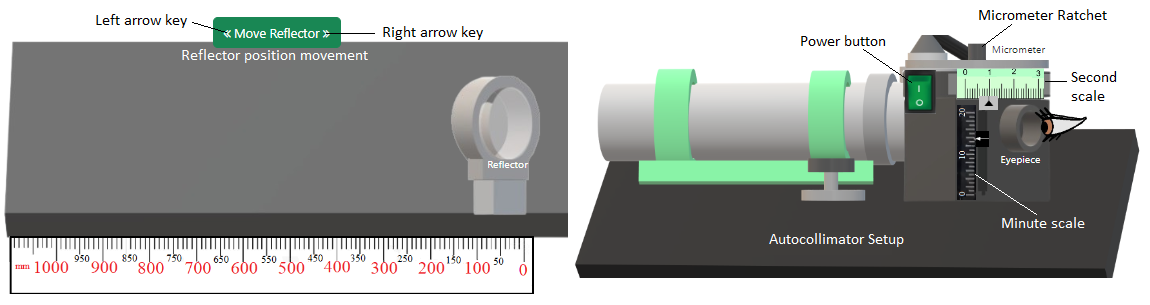
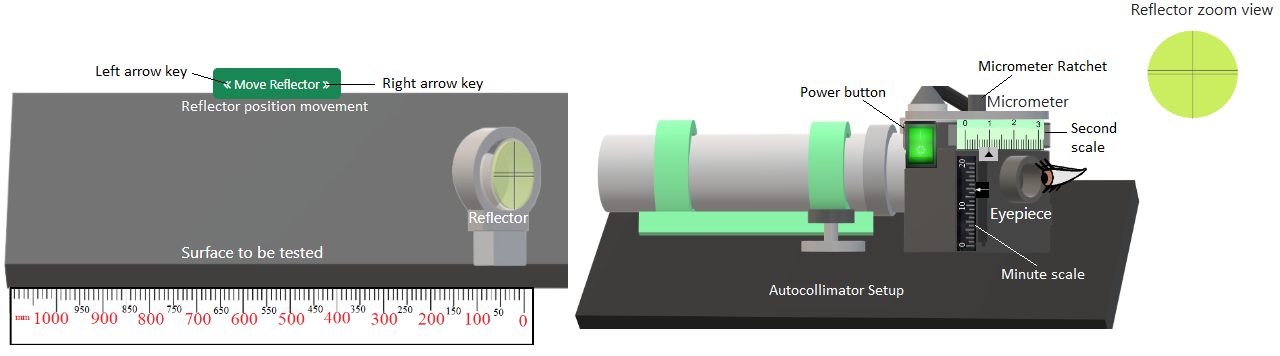
dxpf6

diff --git a/experiment/simulation/index.html b/experiment/simulation/index.html
@@ -6,7 +6,7 @@
 <!DOCTYPE html>
 <html lang="en"><!--html tag start-->
 <head>
-    <title>Measurement of alignment using Autocollimator / Roller Set </title>
+    <title>Measurement of flatness of a surface using Autocollimator</title>
     <meta charset="UTF-8">
     <meta http-equiv="X-UA-Compatible" content="IE=edge">
     <meta name="viewport" content="width=device-width, initial-scale=1.0">
@@ -87,8 +87,7 @@
 					  zero position first (0-110 mm). There will be missalignment between target graticule and setting graticule
 					  horizontal lines in the reflected image on the reflector. </li><br/>					  
 					  
-					  <li>The micrometer adjustment is provided for controlling the coincidence of setting graticule and the target image photo-electrically.
-						Click on the ratchet of the micrometer untill the horizontal lines of setting and target graticule coincides.</li><br/>
+					  <li> Click on the ratchet of the micrometer until the horizontal lines of setting and target graticule coincides.</li><br/>
 					 
 					 <li>Click on 'Calculate' button to observe the measurements. Click on 'Table' at the bottom of the page and click on 'Show Table' button to tabulate the readings.</li><br/>
 
@@ -161,6 +160,7 @@
 			
 			<img  src="./images/base.png">
 			<img id="rular" src="./images/rular.png">
+			<span id="surT">Surface to be tested</span>
 			<!-- <img id="rfbase" src="./images/rfbase.png">
 			<img id="rfbase2" src="./images/rfbase2.png"> -->
 			<img id="mirror" src="./images/mirrorset.png">

diff --git a/experiment/simulation/js/acm.js b/experiment/simulation/js/acm.js
@@ -75,7 +75,7 @@ countC-=8.4;
 countP-=8.4;
 document.getElementById('mirror').style.left = math.add(72.4,countL)+ "%";	
 document.getElementById('lightcir').style.left = math.add(78.2,countC)+ "%";
-document.getElementById('reflector').style.left = math.add(80.4,countP)+ "%";
+document.getElementById('reflector').style.left = math.add(77.4,countP)+ "%";
 document.getElementById('movechk').stepUp(1);
 if(document.getElementById('movechk').value == 8){
 	document.getElementById('rbtnP').style['pointer-events'] = "none";
@@ -88,7 +88,7 @@ countC+=8.4;
 countP+=8.4;
 document.getElementById('mirror').style.left = math.add(72.4,countL)+ "%";	
 document.getElementById('lightcir').style.left = math.add(78.2,countC)+ "%";
-document.getElementById('reflector').style.left = math.add(80.4,countP)+ "%";
+document.getElementById('reflector').style.left = math.add(77.4,countP)+ "%";
 document.getElementById('movechk').stepDown(1);	
 if(document.getElementById('movechk').value == 1){
 	document.getElementById('rbtnM').style['pointer-events'] = "none";

diff --git a/experiment/simulation/css/acm.css b/experiment/simulation/css/acm.css
@@ -37,12 +37,21 @@ z-index: 2;
 }
 #reflector{
 position: absolute;
-left: 80.4%;
-top: 54%;
-width: 18%;
-z-index: 2;
-color: white;
-font-size: small;
+    left: 77.4%;
+    top: 54%;
+    width: 18%;
+    z-index: 2;
+    color: white;
+    font-size: 19px;
+}
+#surT{
+position: absolute;
+    left: 33.4%;
+    top: 67%;
+    width: 26%;
+    z-index: 2;
+    color: white;
+    font-size: 20px;
 }
 
 #acm{
@@ -66,11 +75,11 @@ width: 10%;
 }
 #eyepis{
 position: absolute;
-    left: 163.4%;
+    left: 161.4%;
     top: 52%;
     width: 10%;
     color: white;
-	font-size:small;
+    font-size: 20px;
 }
 #minscale{
 position: absolute;
@@ -104,10 +113,10 @@ width: 25%;
 }
 #mic{
 position: absolute;
-left: 162%;
-top: 9.5%;
+left: 161%;
+top: 8.3%;
 width: 25%;
-font-size: small;
+font-size: 20px;
 }
 #lightcir{
 display:none;
@@ -123,7 +132,8 @@ display: none;
 position: absolute;
 left: 176.2%;
 top: -14.5%;
-width: 20%;
+width: 25%;
+font-size:20px;
 }
 #lightzoom{
 display: none;

diff --git a/experiment/theory.md b/experiment/theory.md
@@ -2,7 +2,7 @@
 
 Autocollimators are optical instruments used to measure small angular differences, and  also used to measure  straightness, flatness, and alignment. They are  highly sensitive to small  angular changes. It works as a  collimator and an infinity telescope together. These are mostly used to measure deflections in a surface.
 
-**Basic   principle:**
+**Basic principle:**
 
 Autocollimator works on the principle of reflection of light. It uses a monochromatic light source emitting a beam of light rays directed towards a beam reflector placed on the surface to be tested. Upon hitting the reflector,  the  reflected beam is converged  to a plane that can be viewed. If the surface is flat and devoid of angular deviations, the rays reflect back along their original path, converging at a plane at the focal distance from the converging lens as shown in Fig. 1. 
 

diff --git a/experiment/procedure.md b/experiment/procedure.md
@@ -13,7 +13,7 @@ horizontal lines in the reflected image on the reflector.
 <b>Fig. 1. Measurement of alignment using Autocollimator simulation model</b>        
 </div>
 
-2. The micrometer adjustment is provided for controlling the coincidence of setting graticule and the target image photo-electrically. Click on the ratchet of the micrometer untill the horizontal lines of setting and target graticule coincides.
+2. Click on the ratchet of the micrometer until the horizontal lines of setting and target graticule coincides.
 
 3. Click on 'Calculate' button to observe the measurements. Click on 'Table' at the bottom of the page and click on 'Show Table' button to tabulate the readings.
 

diff --git a/README.md b/README.md
@@ -7,7 +7,7 @@
 <b>Discipline | <b> Mechanical Engineering 
 :--|:--|
 <b> Lab | <b>Metrology and Measurement Laboratory 
-<b> Experiment|     <b>Measurement of alignment using Autocollimator / Roller Set and Experiment 8 
+<b> Experiment|     <b>Measurement of flatness of a surface using Autocollimator and Experiment 8 
 
 
 ### About the Experiment
